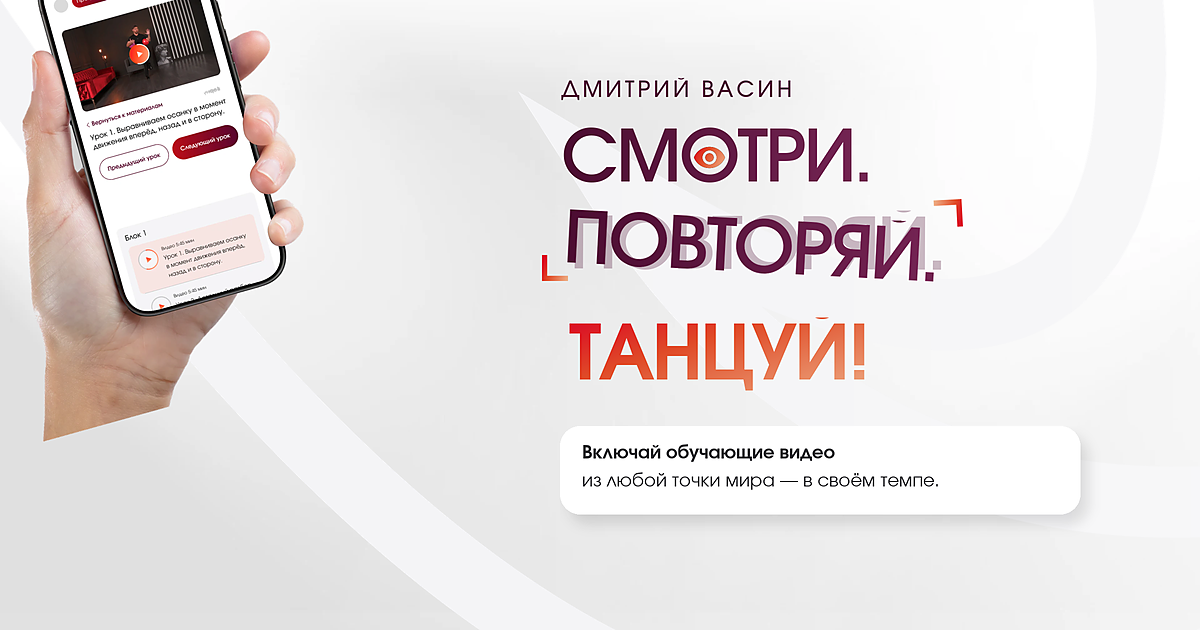
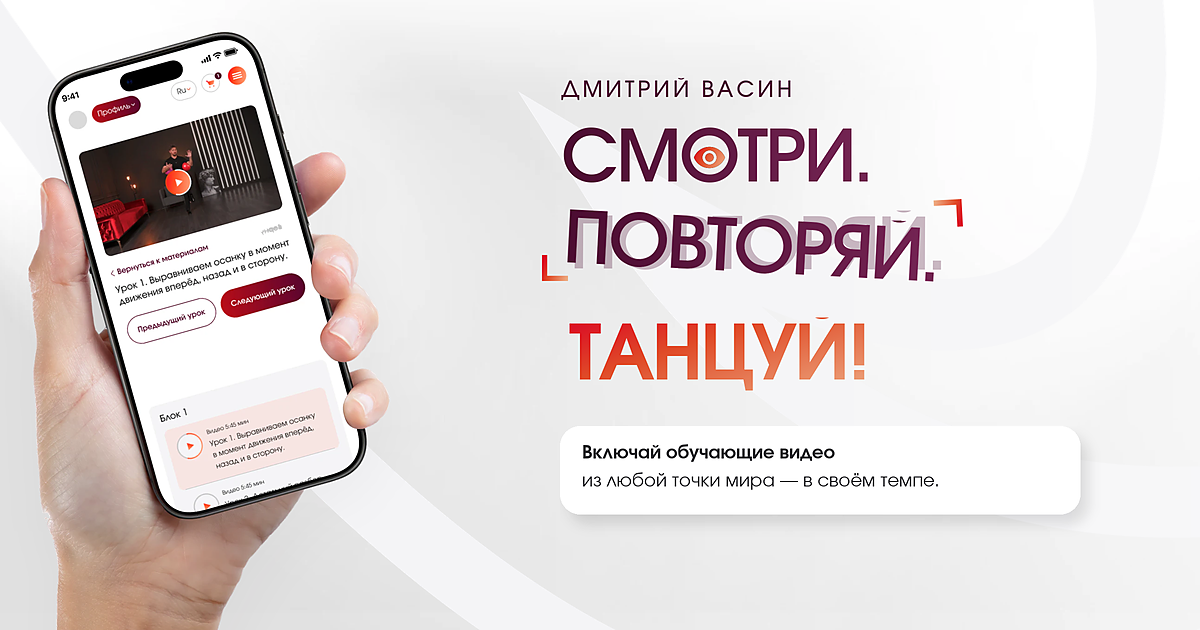
fixes

Changed region(s): [[0.0, 0.0, 0.3392, 1.0]]

diff --git a/src/components/site/account/AccountMaterialsView.tsx b/src/components/site/account/AccountMaterialsView.tsx
@@ -291,34 +291,29 @@ function CoverWatchMeter({
   const caption = progress.completed
     ? watchedLabel
     : left > 0
-      ? leftLabel.replace("{time}", formatWatchClock(left))
+      ? `${percent}% · ${leftLabel.replace("{time}", formatWatchClock(left))}`
       : `${percent}%`;
 
   return (
     <div className="pointer-events-none absolute inset-x-0 bottom-0 z-10">
-      <div className="absolute inset-x-0 bottom-0 h-[72px] bg-gradient-to-t from-black/70 via-black/25 to-transparent max-[600px]:h-14" />
-      <div className="relative flex items-end justify-between gap-3 px-3 pb-2 max-[600px]:px-2 max-[600px]:pb-1.5">
-        <p className="text-[12px] font-medium leading-none tracking-[0.01em] text-white max-[600px]:text-[10px]">
+      <div className="absolute inset-x-0 bottom-0 h-[88px] bg-gradient-to-t from-black/80 via-black/35 to-transparent max-[600px]:h-[72px]" />
+      <div className="relative flex flex-col gap-2 px-2.5 pb-2.5 max-[600px]:gap-1.5 max-[600px]:px-2 max-[600px]:pb-2">
+        <span className="w-fit rounded-[20px] bg-black/70 px-2.5 py-1.5 text-[12px] font-medium leading-none text-white backdrop-blur-[12px] [font-variant-numeric:tabular-nums] max-[600px]:px-2 max-[600px]:py-1 max-[600px]:text-[11px]">
           {caption}
-        </p>
-        {progress.completed ? null : (
-          <p className="text-[12px] font-semibold leading-none text-white/90 [font-variant-numeric:tabular-nums] max-[600px]:text-[10px]">
-            {percent}%
-          </p>
-        )}
-      </div>
-      <div
-        className="relative h-[3px] w-full bg-white/20 max-[600px]:h-[2px]"
-        role="progressbar"
-        aria-valuemin={0}
-        aria-valuemax={100}
-        aria-valuenow={percent}
-        aria-label={caption}
-      >
-        <span
-          className="absolute inset-y-0 left-0 bg-[image:var(--brand-gradient)] shadow-[0_0_12px_rgba(219,12,37,0.45)] transition-[width] duration-500 ease-out"
-          style={{ width: `${percent}%` }}
-        />
+        </span>
+        <div
+          className="relative h-1.5 w-full overflow-hidden rounded-full bg-white/40"
+          role="progressbar"
+          aria-valuemin={0}
+          aria-valuemax={100}
+          aria-valuenow={percent}
+          aria-label={caption}
+        >
+          <span
+            className="absolute inset-y-0 left-0 rounded-full bg-[image:var(--brand-gradient)] transition-[width] duration-500 ease-out"
+            style={{ width: `${percent}%` }}
+          />
+        </div>
       </div>
     </div>
   );

diff --git a/src/components/landing/MyViewSection.tsx b/src/components/landing/MyViewSection.tsx
@@ -30,7 +30,7 @@ function MyViewMobile() {
       {/* Frame 2422 — 35,3175 (2937+238) */}
       <div className="absolute left-[35px] top-[3175px] z-[3] flex h-[110px] w-[290px] items-center rounded-[10px] bg-white py-[15px] pl-[14px] pr-[15px] shadow-[0px_4px_21.5px_rgba(0,0,0,0.09)]">
         <p className="w-[249px] text-[13px] font-normal leading-[1.5] text-text">
-          За 25+ лет моей практики многие из этих наблюдений постепенно
+          За годы моей практики многие из этих наблюдений постепенно
           сложились в идеи, которыми мне захотелось поделиться.
         </p>
       </div>
@@ -138,7 +138,7 @@ function MyViewDesktop() {
           className="absolute left-0 top-0 h-[112px] w-[83px] object-contain object-left"
         />
         <p className="w-[368px] whitespace-pre text-[16px] font-normal leading-[1.5] text-text">
-          {`За 25+ лет моей практики многие из этих
+          {`За годы моей практики многие из этих
 наблюдений постепенно сложились в идеи,
 которыми мне захотелось поделиться.`}
         </p>

diff --git a/src/components/landing/CountdownSection.tsx b/src/components/landing/CountdownSection.tsx
@@ -79,19 +79,19 @@ function CountdownMobile({
           subtitleClassName="absolute left-[15px] top-[118px] z-[1] w-[250px] text-[16px] font-medium leading-[1.3] text-white/90"
         />
       ) : (
-        <>
-          <h2 className="absolute left-[15px] top-[20px] z-[1] w-[290px] text-[24px] font-medium leading-[1.2] text-white">
+        <div className="relative z-[1] flex w-full flex-col px-[15px] pt-[20px]">
+          <h2 className="text-[24px] font-medium leading-[1.2] text-white">
             Закрытие
             <br />
             доступа через:
           </h2>
-          <p className="absolute left-[15px] top-[59px] z-[1] w-[284px] text-[57px] font-medium leading-[1.1] tracking-[-1.71px] text-white tabular-nums">
+          <p className="mt-[8px] text-[57px] font-medium leading-none tracking-[-1.71px] text-white tabular-nums">
             {display}
           </p>
-          <ClubCta className="btn-primary absolute left-[15px] top-[152px] z-[1]">
+          <ClubCta className="btn-primary-mobile mt-[16px]">
             Выбрать тариф и оплатить
           </ClubCta>
-        </>
+        </div>
       )}
 
       <div className="pointer-events-none absolute left-[142px] top-[212px] z-0 h-[139px] w-[178px] overflow-hidden">

diff --git a/src/components/landing/DirectionsSection.tsx b/src/components/landing/DirectionsSection.tsx
@@ -27,7 +27,7 @@ const cards = [
     text: `Разбираемся, почему одни
 движения получаются легко,
 а\u00a0другие требуют лишних
-усилий`,
+усилий.`,
   },
   {
     title: "Музыкальность",
@@ -93,7 +93,7 @@ const mobileCards = [
     y: 4731,
     h: 119,
     textW: 210,
-    text: "Разбираемся, почему одни движения получаются легко, а\u00a0другие требуют лишних усилий",
+    text: "Разбираемся, почему одни движения получаются легко, а\u00a0другие требуют лишних усилий.",
     icon: { src: landingAssets.direction3dMobile[1], w: 89, h: 119 },
   },
   {

diff --git a/src/lib/landing-data.ts b/src/lib/landing-data.ts
@@ -54,7 +54,7 @@ export const directions = [
   {
     title: "Техника",
     description:
-      "Разбираемся, почему одни движения получаются легко, а другие требуют лишних усилий",
+      "Разбираемся, почему одни движения получаются легко, а другие требуют лишних усилий.",
     icon: landingAssets.icons.directionTechnique,
     position: "left-bottom" as const,
   },

diff --git a/src/lib/catalog/home-copy.ts b/src/lib/catalog/home-copy.ts
@@ -208,7 +208,7 @@ export const homeMobileBreaks = {
     [
       "Разбираемся, почему одни",
       "движения получаются легко,",
-      "а\u00a0другие требуют лишних усилий",
+      "а\u00a0другие требуют лишних усилий.",
     ],
     [
       "Уходим от\u00a0привычных музыкальных",

diff --git a/scripts/generate-og-catalog.py b/scripts/generate-og-catalog.py
@@ -168,14 +168,37 @@ def main() -> int:
     blob = Image.open(blob_png).convert("RGBA")
     canvas.alpha_composite(blob, (px(-80), px(-40)))
 
+    # Opaque crop of the mockup: the file has hundreds of px of empty
+    # padding, so scaling the full canvas left a severed wrist in mid-air.
+    # Pin the hand to the bottom edge — same crop language as the home hero.
     phone = Image.open(HOME / "hero-phone.webp").convert("RGBA")
-    phone_h = px(800)
-    phone_scale = phone_h / phone.height
-    phone = phone.resize(
-        (round(phone.width * phone_scale), phone_h),
-        Image.Resampling.LANCZOS,
+    box = phone.split()[-1].getbbox()
+    if box is None:
+        raise RuntimeError("hero-phone.webp has no opaque pixels")
+    phone = phone.crop(box)
+    phone_h = H + px(18)
+    phone_w = round(phone.width * phone_h / phone.height)
+    phone = phone.resize((phone_w, phone_h), Image.Resampling.LANCZOS)
+    phone_x = px(28)
+    phone_y = H - phone_h + px(50)
+
+    shadow_blur = px(24)
+    shadow_off = (px(8), px(18))
+    pad = shadow_blur * 2
+    shadow_layer = Image.new(
+        "RGBA",
+        (
+            phone.width + pad * 2 + shadow_off[0],
+            phone.height + pad * 2 + shadow_off[1],
+        ),
+        (0, 0, 0, 0),
     )
-    canvas.alpha_composite(phone, (px(-110), H - phone_h + px(36)))
+    shade = Image.new("RGBA", phone.size, (20, 8, 16, 0))
+    shade.putalpha(phone.split()[-1].point(lambda a: int(a * 0.18)))
+    shadow_layer.paste(shade, (pad + shadow_off[0], pad + shadow_off[1]), shade)
+    shadow_layer = shadow_layer.filter(ImageFilter.GaussianBlur(shadow_blur))
+    shadow_layer.alpha_composite(phone, (pad, pad))
+    canvas.alpha_composite(shadow_layer, (phone_x - pad, phone_y - pad))
 
     veil_px = np.zeros((H, W, 4), dtype=np.uint8)
     start = px(480)
